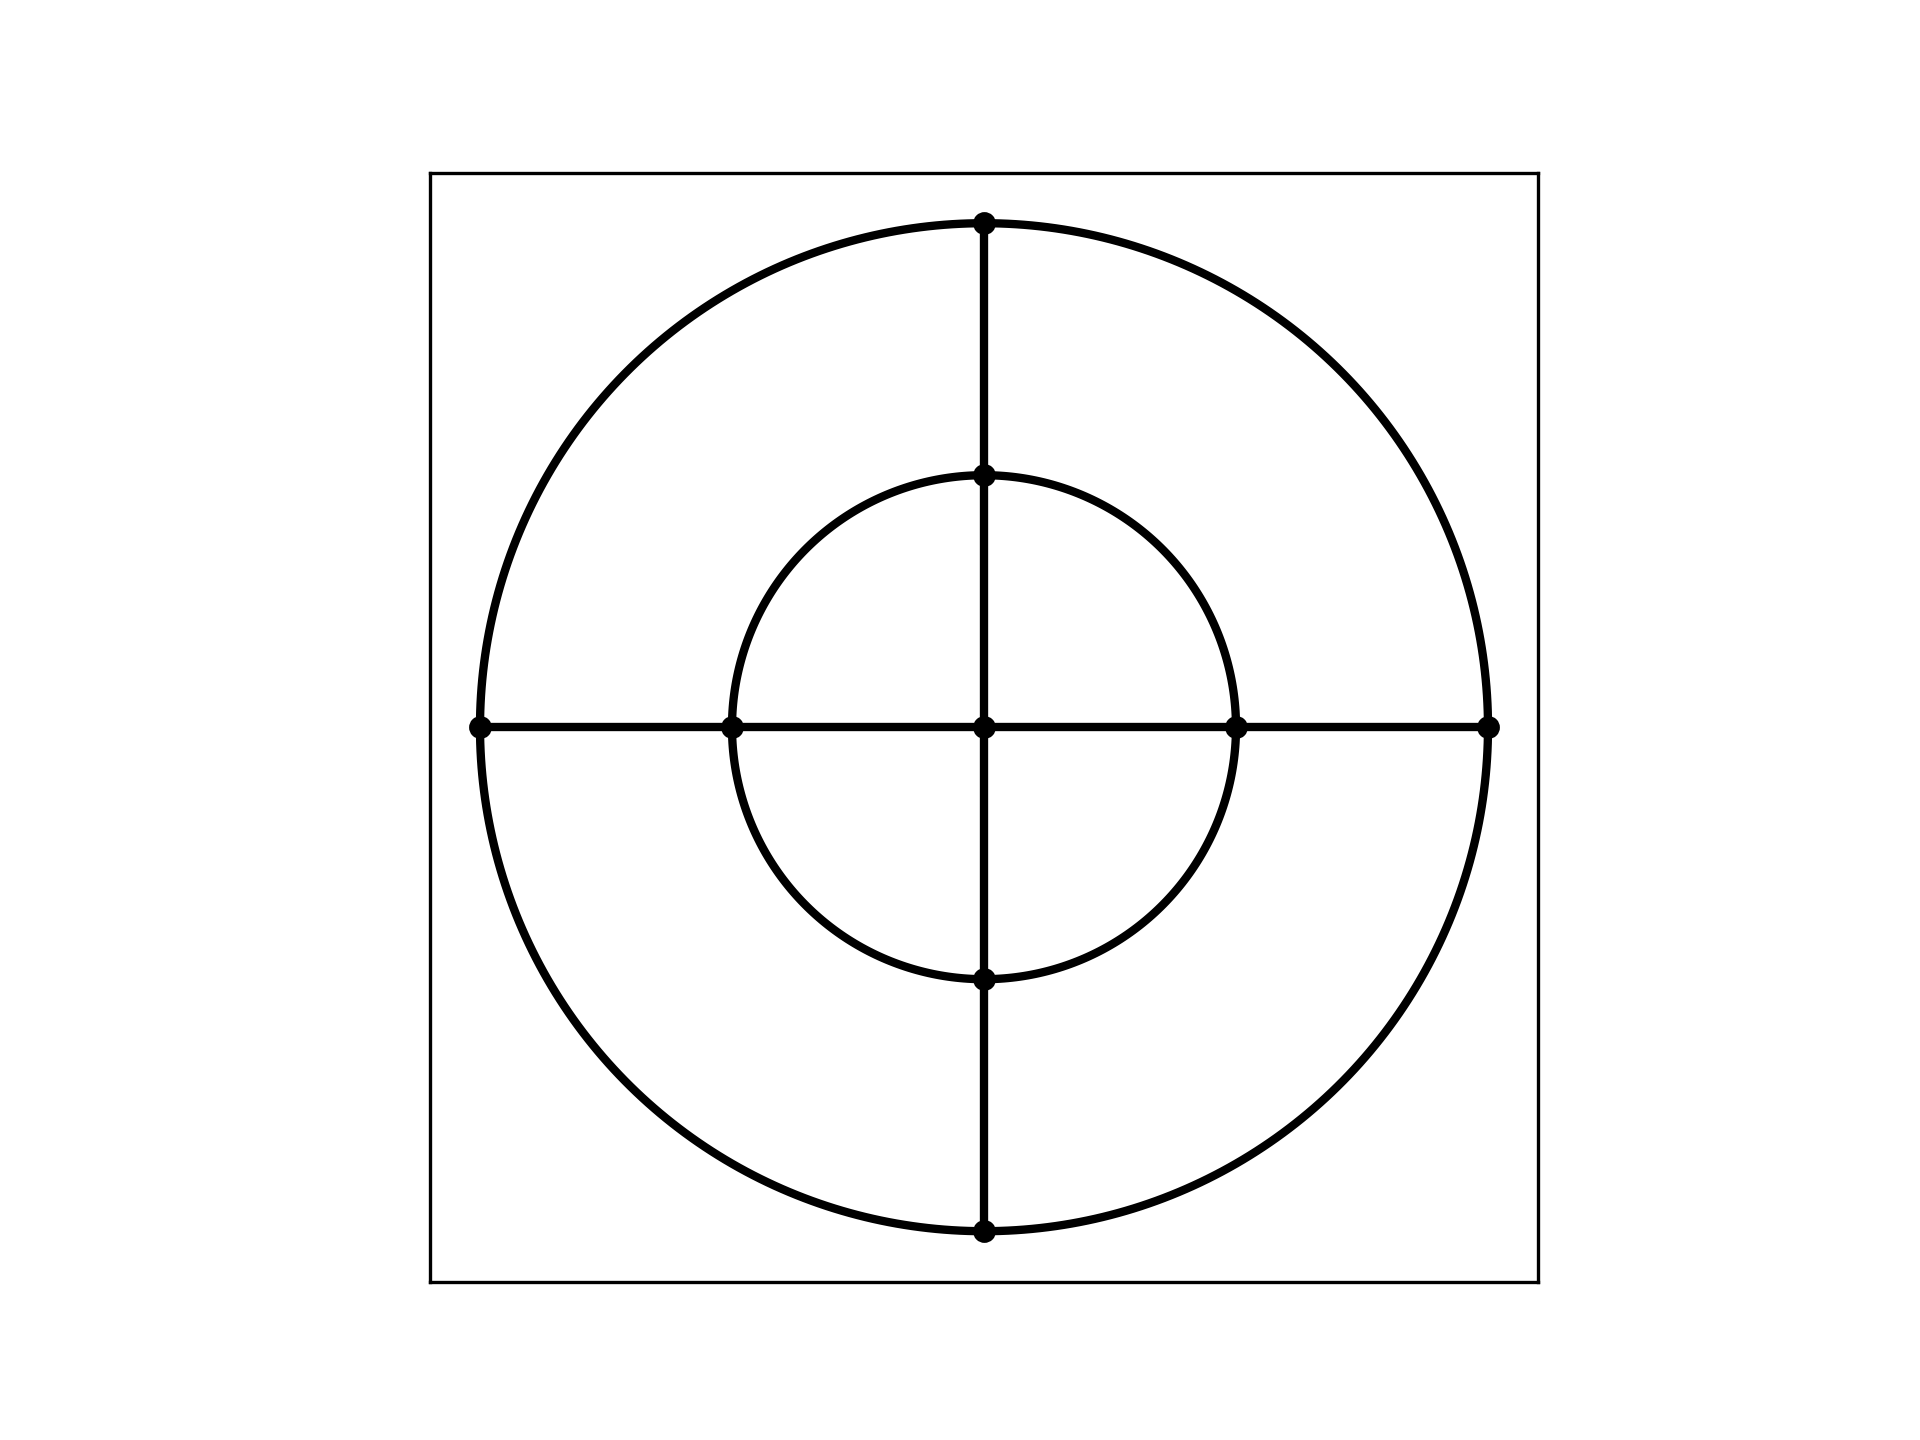
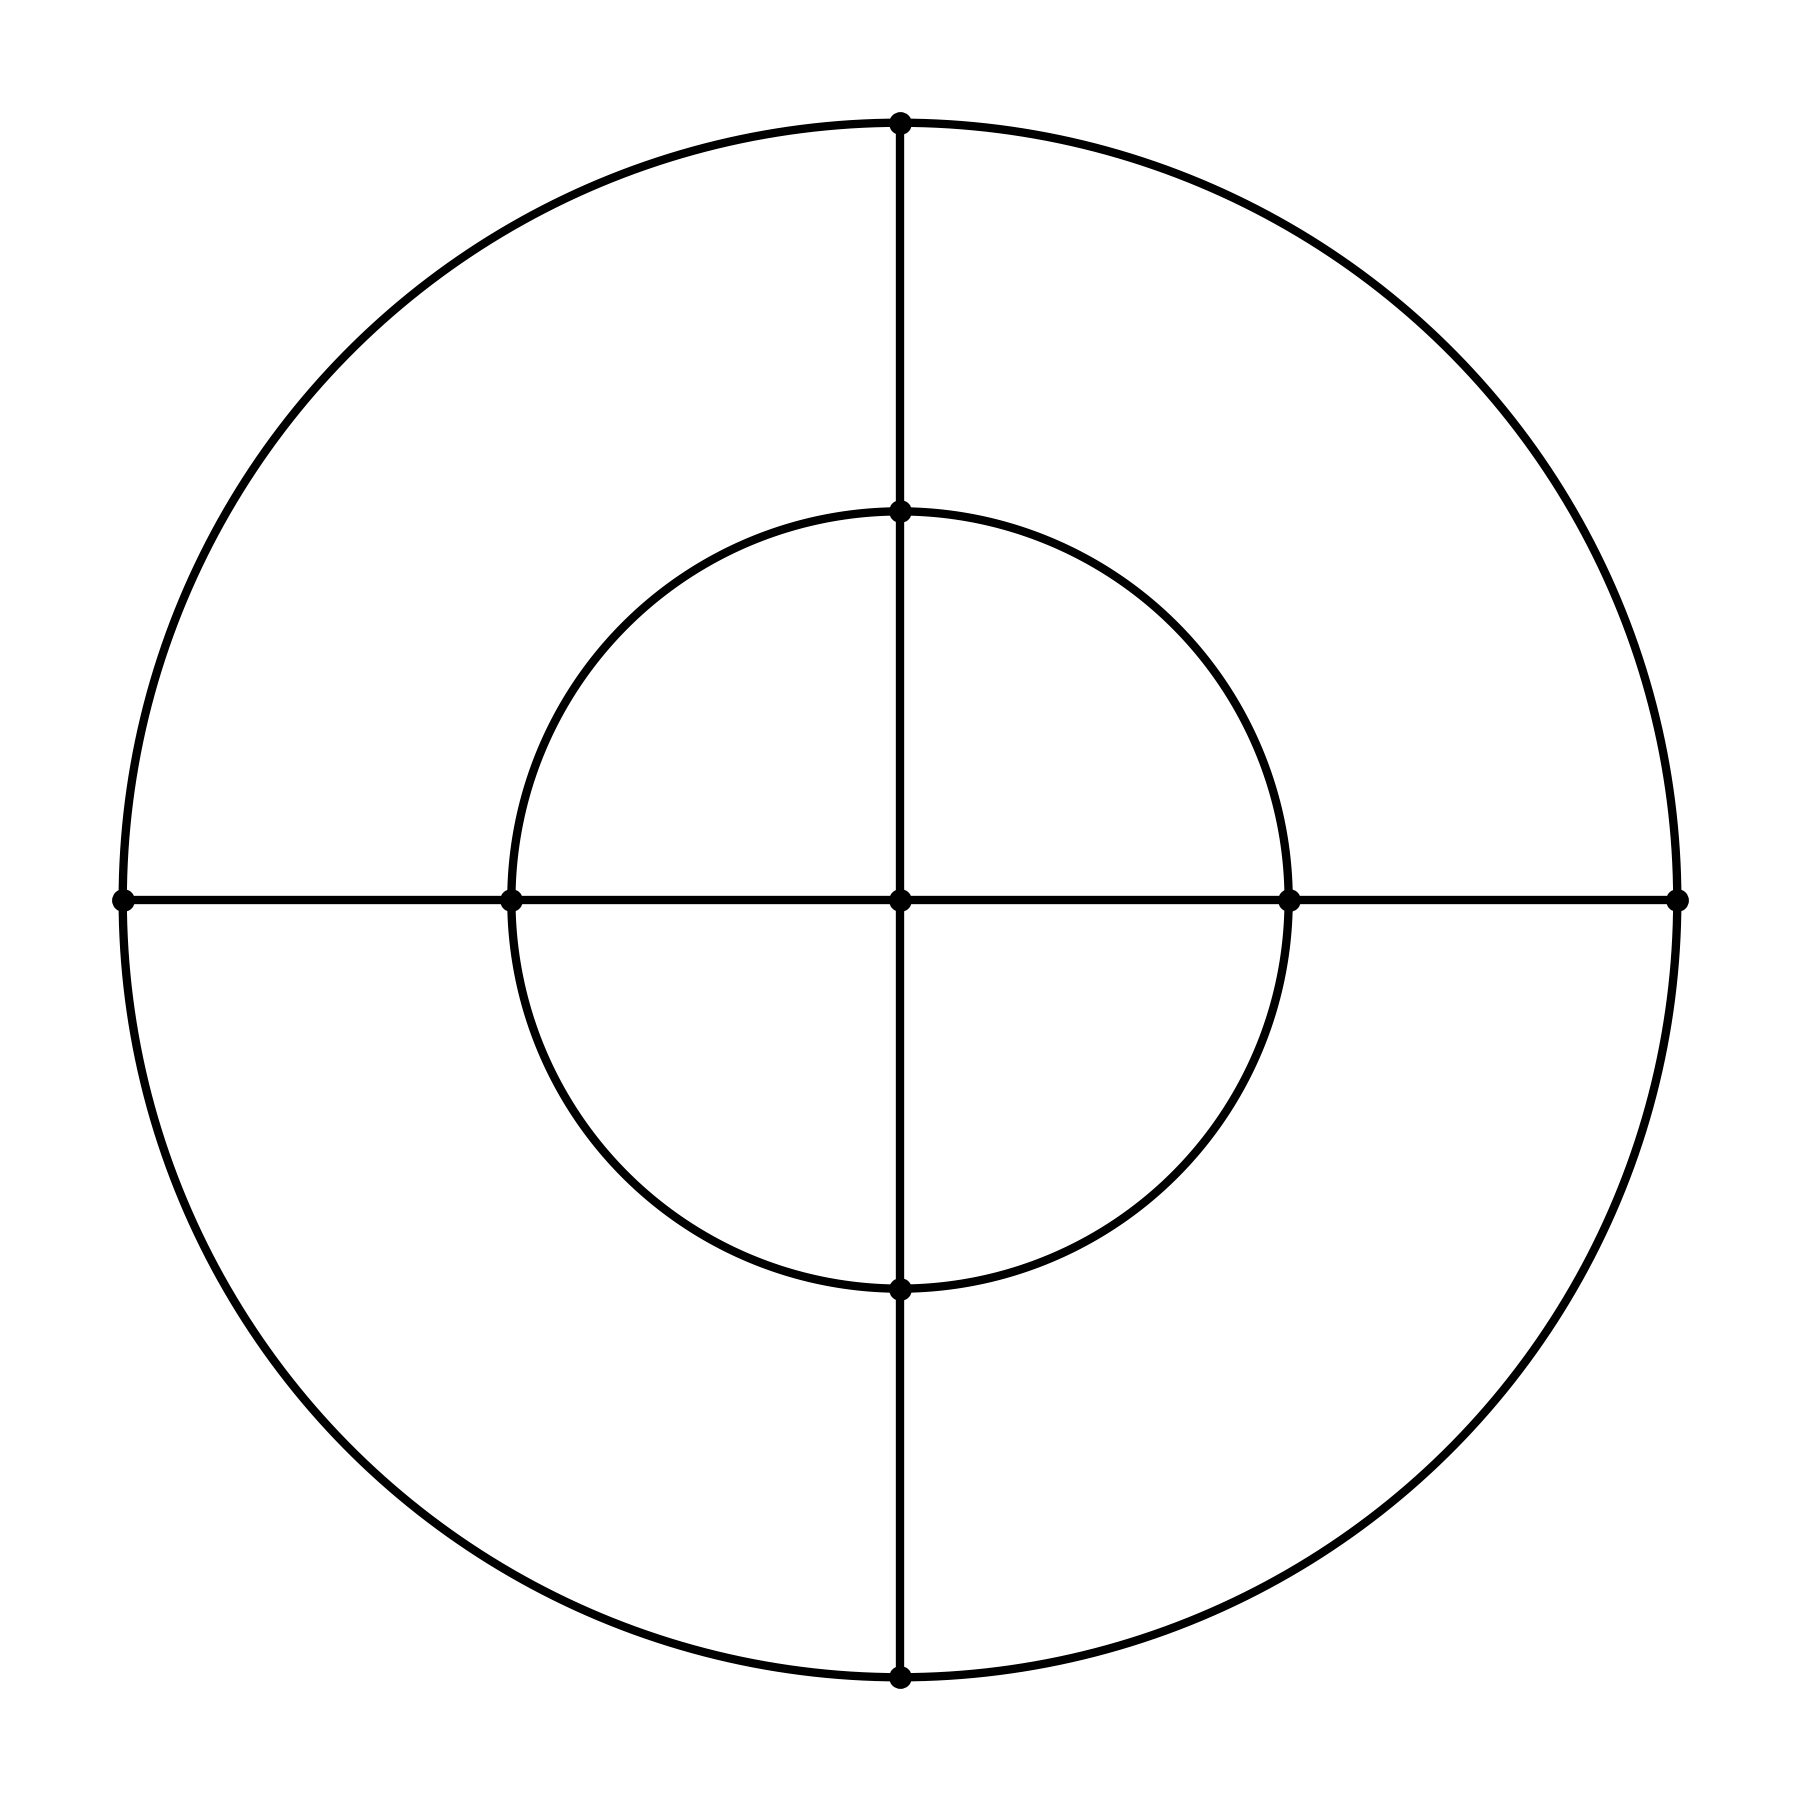
Update plot function and harmonize demo figures

diff --git a/utg/utils.py b/utg/utils.py
@@ -72,6 +72,7 @@ def load_graph(filepath):
 def plot_graph(
     G,
     square_bb=True,
+    figsize=(6, 6),
     show_voronoi=False,
     voronoi_color="firebrick",
     voronoi_alpha=0.7,
@@ -85,7 +86,8 @@ def plot_graph(
     edge_linewidth=2,
     node_size=20,
     dpi=300,
-    no_border=False,
+    no_border=True,
+    tight=True,
 ):
     """
     Plot the graph using geopandas plotting function, with the option to save the picture and see the Voronoi cells.
@@ -93,6 +95,7 @@ def plot_graph(
     Args:
         G (nx.Graph or nx.MultiDiGraph): Graph we want to plot.
         square_bb (bool, optional): If True, limits of the figure are a square centered around the graph. Defaults to True.
+        figsize (tuple, optional): Size of the figure. Defaults to (10, 10).
         show_voronoi (bool, optional): If True, show the Voronoi cells for each nodes. Defaults to False.
         voronoi_color (str, optional): Color of the Voronoi cells. Defaults to firebrick.
         voronoi_alpha (float, optional): Transparency of the Voronoi cells. Defaults to 0.7.
@@ -105,12 +108,15 @@ def plot_graph(
         edge_linewidth (int, optional): Width of the edges. Defaults to 2.
         node_size (int, optional): Size of the nodes. Defaults to 20.
         dpi (int, optional): Dots per inches of the figure. Defaults to 300.
-        no_border (str, optional): If True, remove borders of the plot. Defaults to False.
+        no_border (str, optional): If True, remove borders of the plot. Defaults to True.
+        tight (bool, optional): If True, use tight layout for the figure. Defaults to True.
 
     Raises:
         ValueError: If save is True, need to specify a filepath. Filepath can't be None.
     """
-    fig, ax = plt.subplots()
+    fig, ax = plt.subplots(figsize=figsize)
+    if tight:
+        fig.set_layout_engine("tight")
     geom_node = [shapely.Point(get_node_coord(G, node)) for node in G.nodes]
     geom_edge = list(nx.get_edge_attributes(G, "geometry").values())
     gdf_node = gpd.GeoDataFrame(geometry=geom_node)
